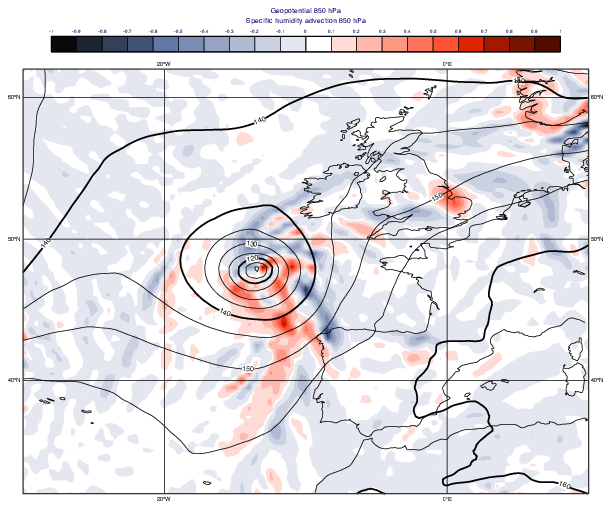
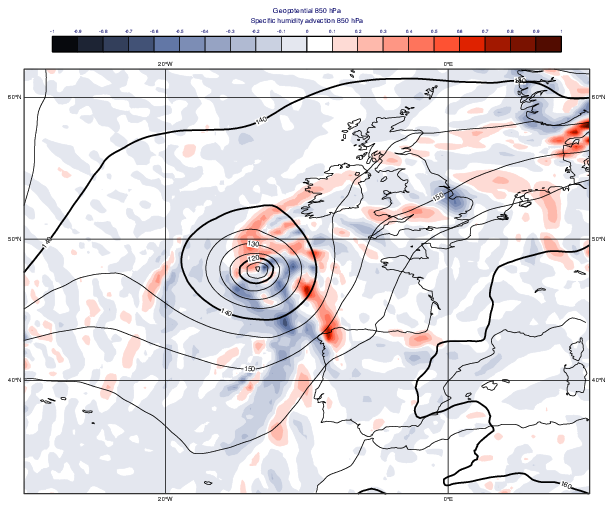
Fix advection gallery example

diff --git a/docs/gallery/advection.py b/docs/gallery/advection.py
@@ -30,8 +30,8 @@ z = mv.read(data=f, param="z")
 # compute specific humidity gradient
 grad = mv.gradient(q[0])
 
-# compute advection
-adv = u[0] * grad[0] + v[0] * grad[1]
+# compute humidity advection
+adv = -(u[0] * grad[0] + v[0] * grad[1])
 
 # scale results for better visualisation
 adv = adv * 1e6
